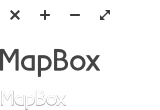
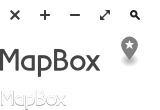
files for geocode point

Changed region(s): [[0.75, 0.3273, 0.875, 0.6], [0.8125, 0.0818, 0.875, 0.1909]]

diff --git a/ext/mmg.js b/ext/mmg.js
@@ -1,0 +1,132 @@
+// from mapbox/spots
+
+function mmg() {
+    var l = {},
+        geojson = {},
+        factory = null,
+        _id = 0,
+        _zoom,
+        selection = {},
+        map;
+
+    var parent = document.createElement('div');
+    parent.style.cssText = 'position: absolute; top: 0px;' +
+      'left: 0px; width: 100%; height: 100%; margin: 0; padding: 0; z-index: 1';
+
+    var level = parent.appendChild(document.createElement('div'));
+    level.style.cssText = 'position: absolute; top: 0px;' +
+      'left: 0px; width: 100%; height: 100%; margin: 0; padding: 0; z-index: 0';
+
+    function defaultFactory(feature) {
+        var d = document.createElement('div');
+        d.className = 'mmg-default';
+        return d;
+    }
+
+    l.gen_id = function() {
+        return _id++;
+    };
+
+    l.correct = function(force) {
+        if (_zoom !== Math.round(map.coordinate.zoom) || force) {
+          _zoom = Math.round(map.coordinate.zoom);
+          level.innerHTML = '';
+          for (var i = 0; i < geojson.features.length; i++) {
+            var feature = geojson.features[i];
+
+            feature.elem = factory(feature);
+            level.appendChild(feature.elem);
+
+            var coord = map.locationCoordinate(new MM.Location(
+              feature.geometry.coordinates[1],
+              feature.geometry.coordinates[0]));
+
+            coord = coord.zoomTo(map.coordinate.zoom);
+
+            var tx = coord.column * map.tileSize.x - 10,
+                ty = coord.row * map.tileSize.y - 25;
+
+            // TODO: pass only scale or only w/h
+            MM.moveElement(feature.elem, {
+                x: tx,
+                y: ty
+            });
+          }
+        }
+    };
+
+    function clean(x) {
+        var clean_features = [];
+        for (var i = 0; i < geojson.features.length; i++) {
+            clean_features.push({
+                type: 'Feature',
+                geometry: {
+                    type: 'Point',
+                    coordinates: geojson.features[i].geometry.coordinates
+                },
+                properties: geojson.features[i].properties
+            });
+        }
+        return {
+          type: "FeatureCollection",
+          features: clean_features
+        };
+    }
+
+    l.byid = function() {
+        var x = {};
+        var c = clean(geojson);
+        for (var i = 0; i < c.features.length; i++) {
+          x[c.features[i].properties.id] = c.features[i];
+        }
+        return x;
+    };
+
+    l.rm = function(id) {
+        for (var i = 0; i < geojson.features.length; i++) {
+            if (geojson.features[i].properties.id === id) {
+              geojson.features.splice(i, 1);
+            }
+        }
+    };
+
+    l.geojson = function(x) {
+        if (!arguments.length) return clean(geojson);
+
+        geojson = x;
+        l.correct(true);
+        l.draw();
+
+        return l;
+    };
+
+    l.draw = function() {
+        var theCoord = map.coordinate.copy();
+        var center = new MM.Point(map.dimensions.x/2, map.dimensions.y/2);
+
+        MM.moveElement(level, {
+            x: -(theCoord.column * 256) + center.x,
+            y: -(theCoord.row * 256) + center.y
+        });
+
+        l.correct();
+    };
+
+    l.factory = function(x) {
+      if (!x) return factory;
+      factory = x;
+      return l;
+    };
+
+    l.map = function(x) {
+      if (!x) return map;
+      map = x;
+      return l;
+    };
+
+    l.parent = parent;
+
+    l.factory(defaultFactory);
+
+    return l;
+}
